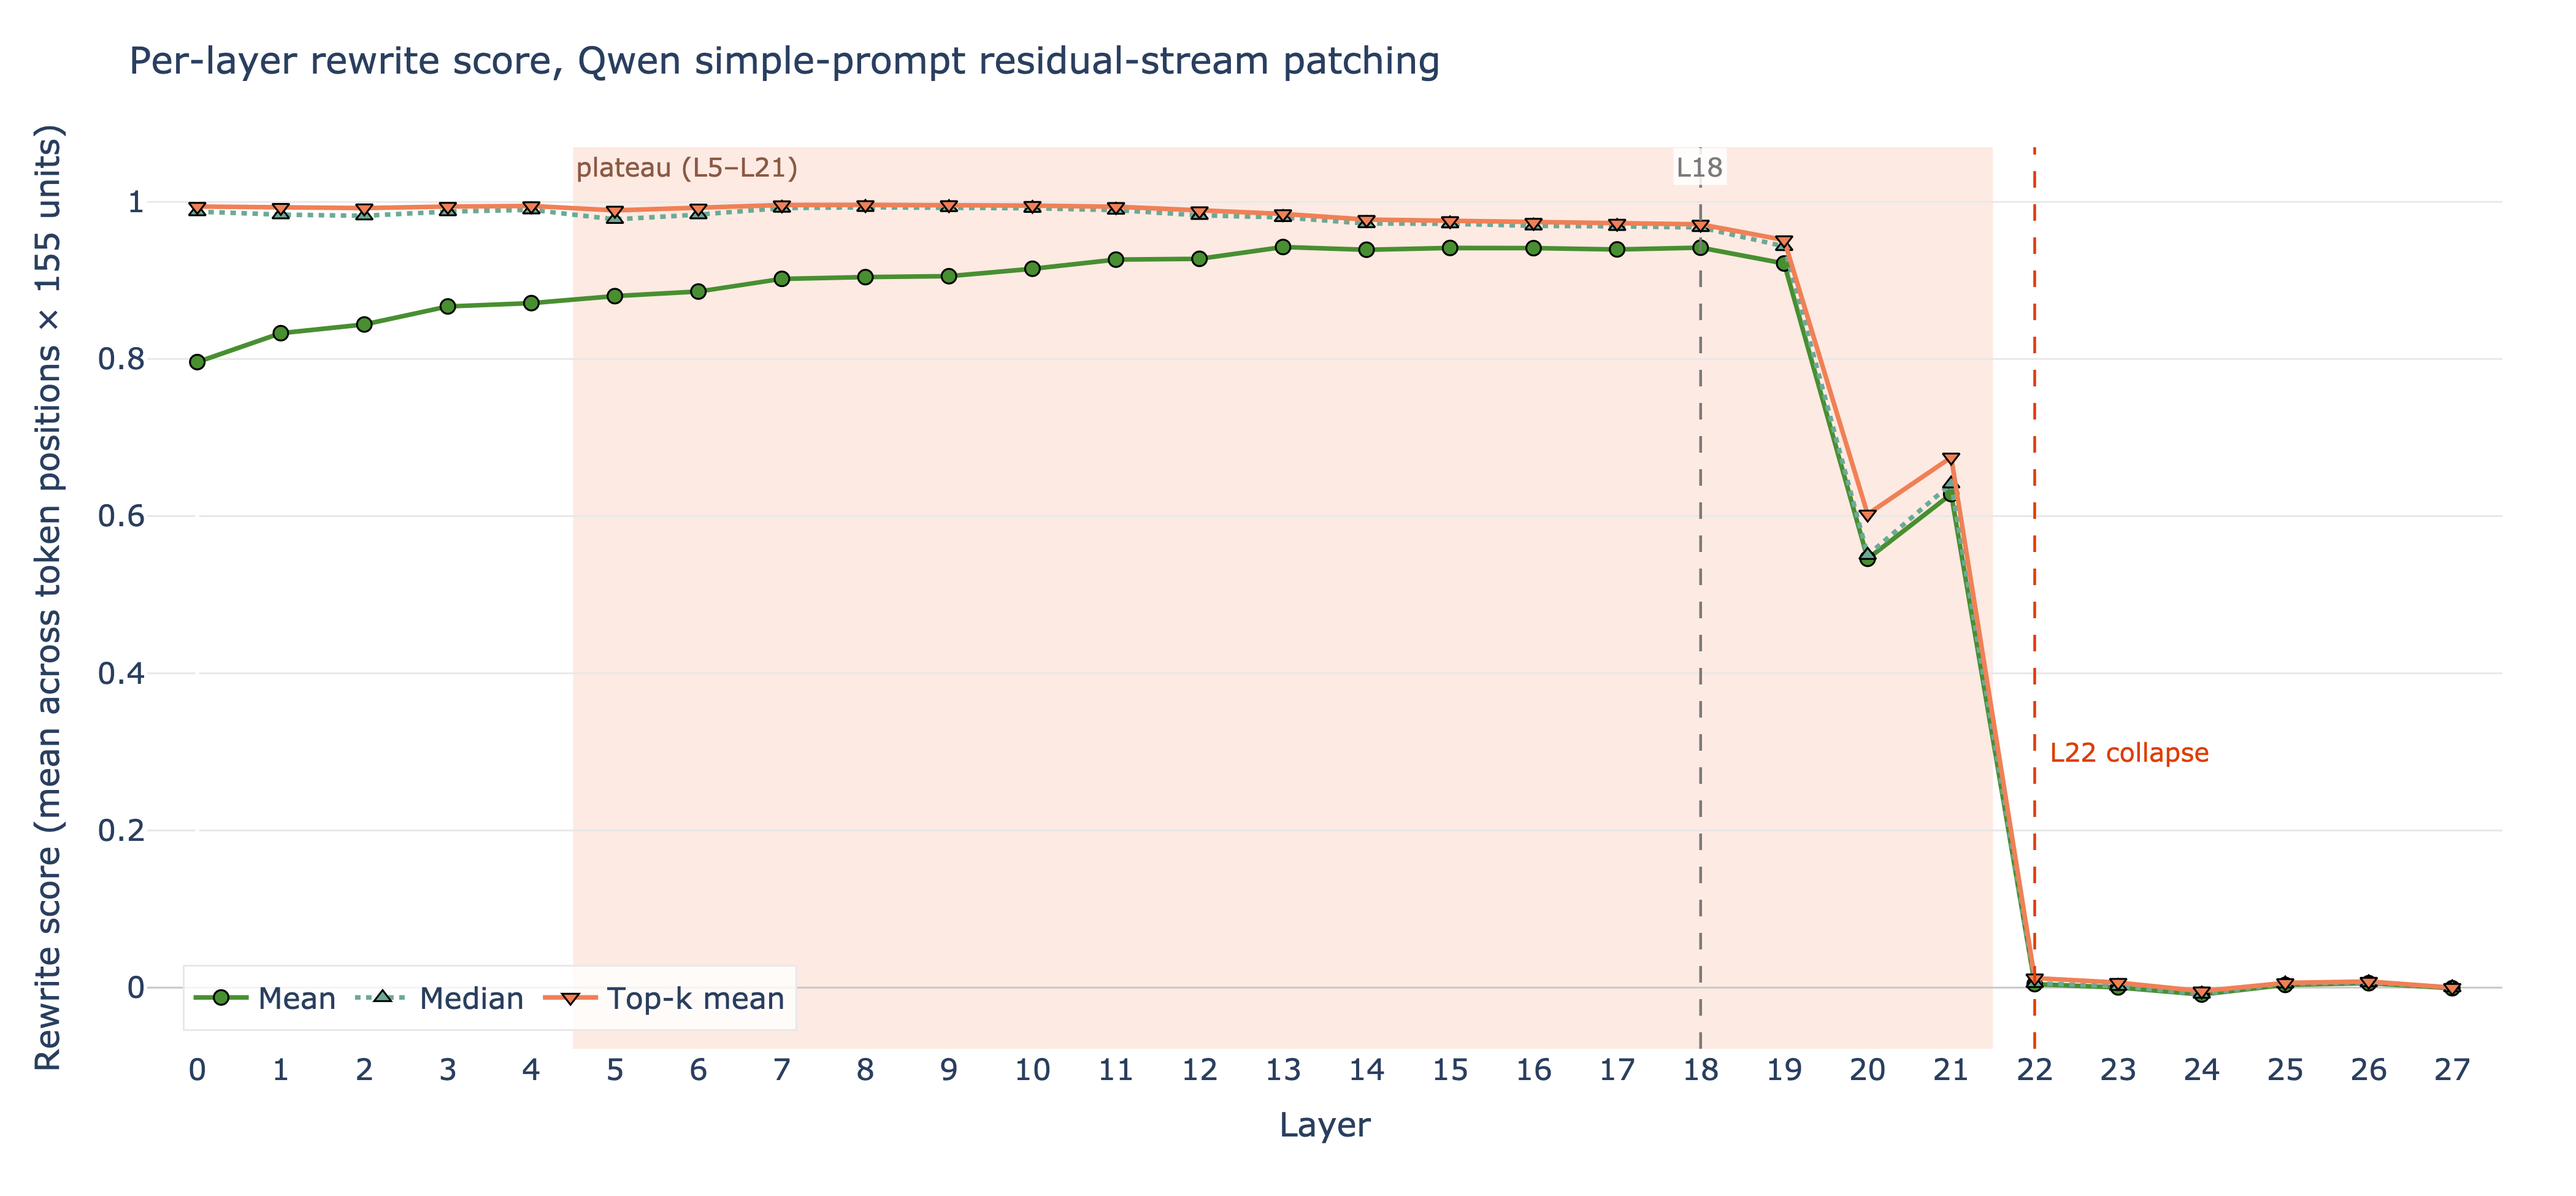
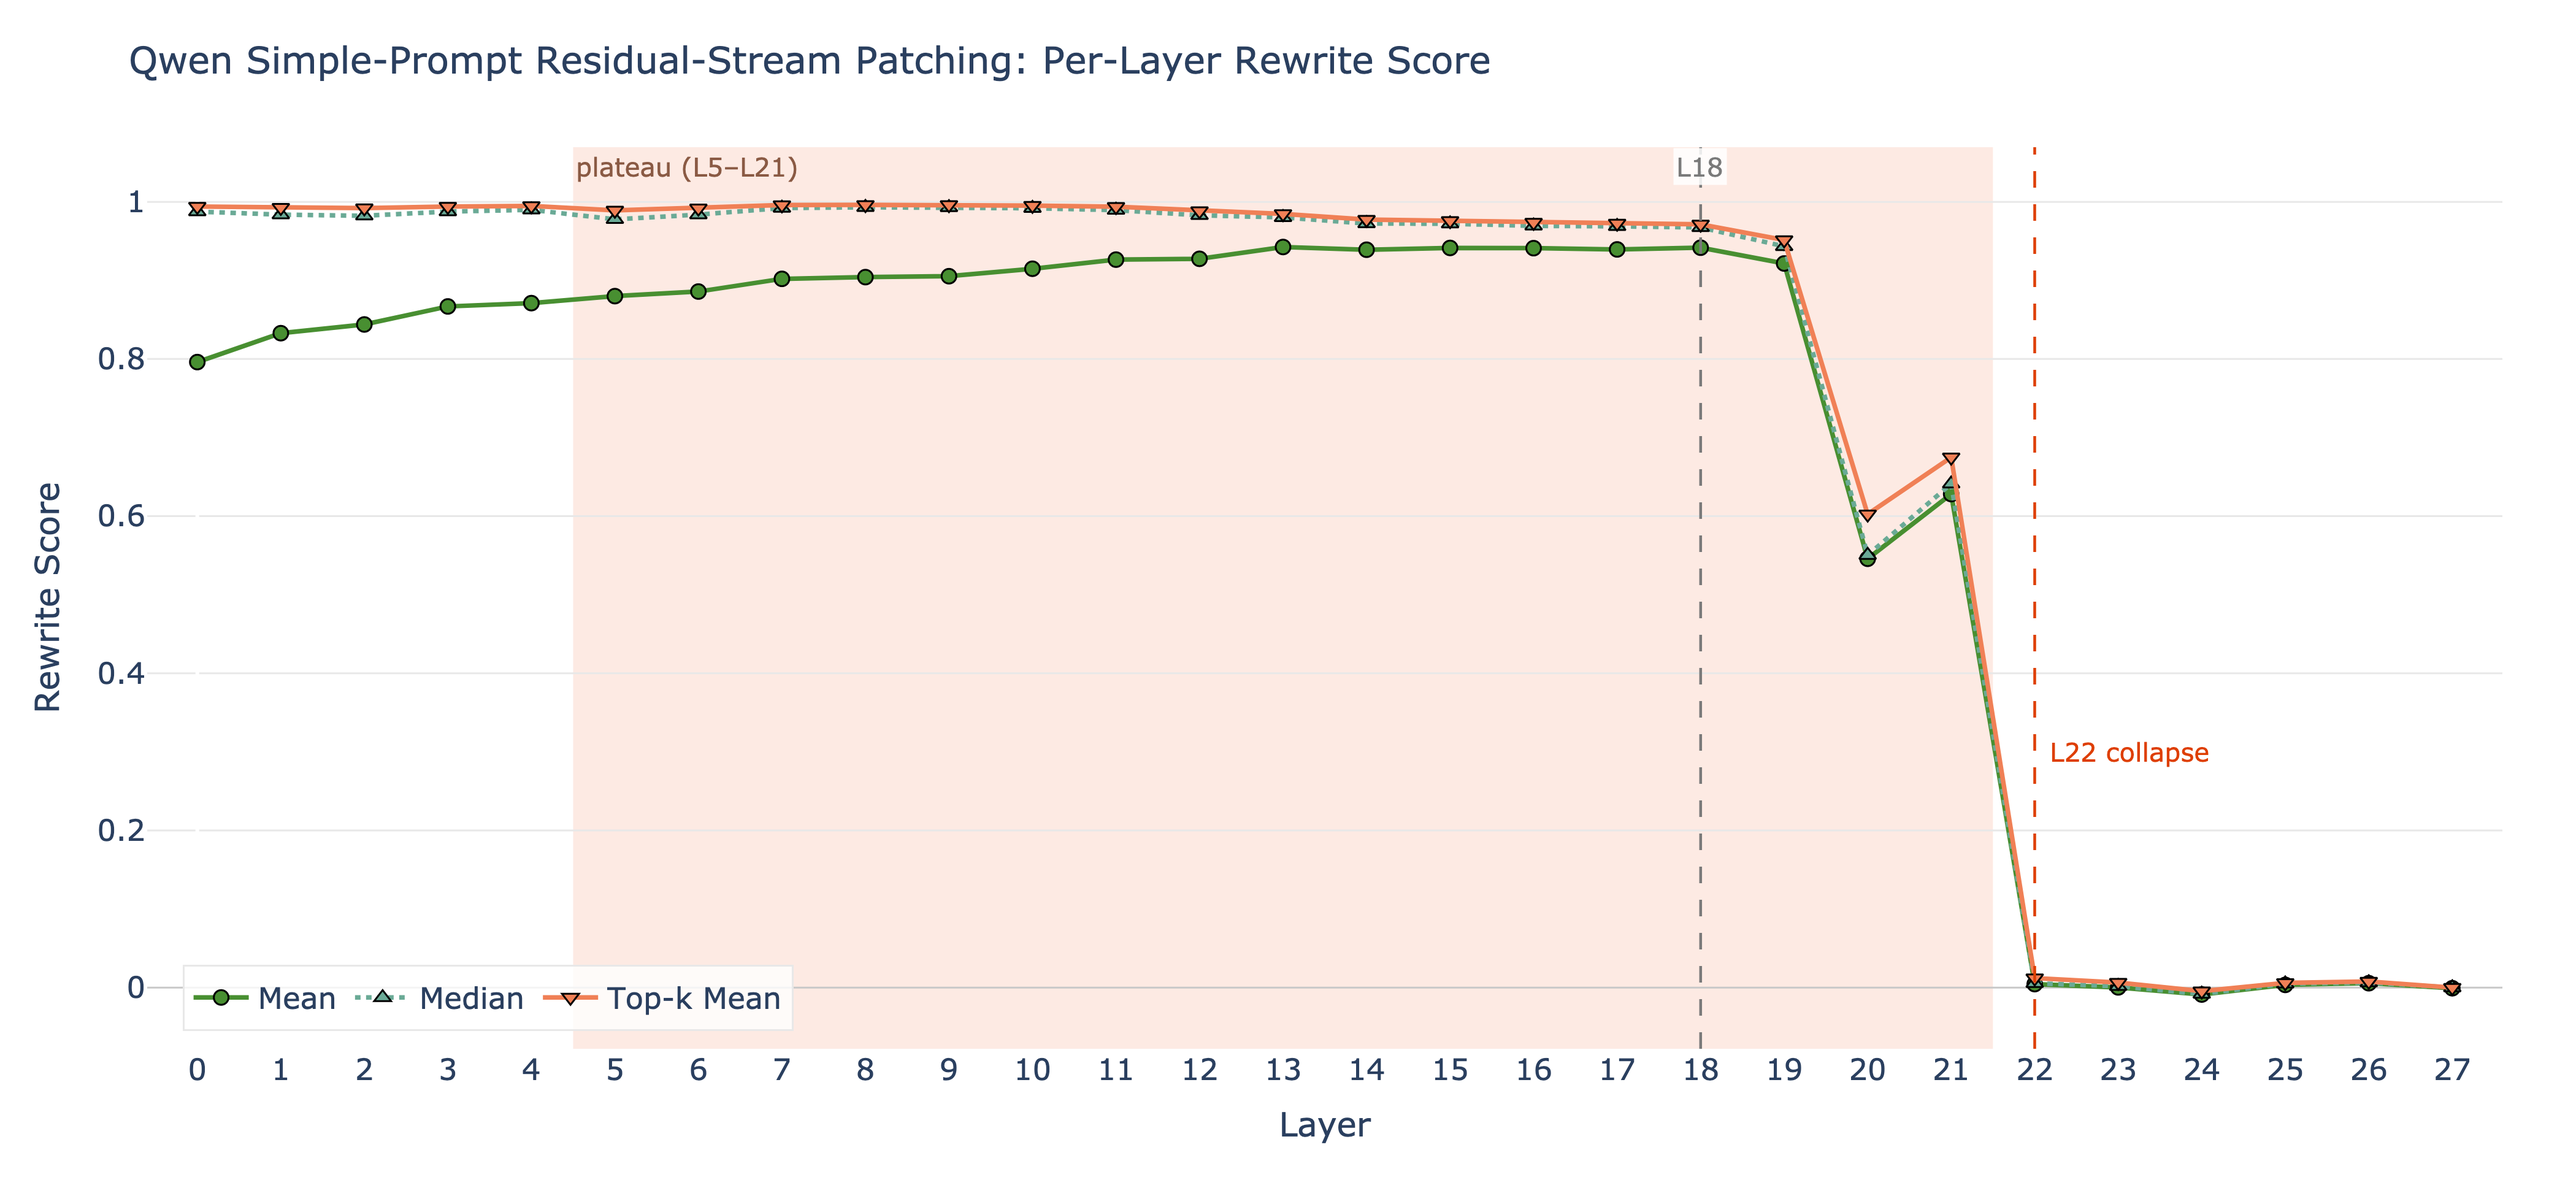
Bring fig11 title and axis labels in line with the figure conventions
Title moves to Title Case with the colon-separated form used by fig5
("Qwen Simple-Prompt Residual-Stream Patching: Per-Layer Rewrite Score")
instead of the original comma-spliced sentence case. Y-axis label reduces
to "Rewrite Score" - the "mean across token positions x 155 units"
aggregation detail belongs in the caption rather than crammed into the
axis. Legend entries title-cased to match.

Values unchanged.

diff --git a/paper_figures/README.md b/paper_figures/README.md
@@ -18,7 +18,7 @@ data" per figure below.
 | `fig5a_mlp_heatmap_asthma_prompt1.png` | Layer × token heatmap of rewrite score, Qwen simple-prompt MLP patching, asthma prompt 1, divergent green(+)/orange(−) scale centered at 0 | `activation_patching/simple_patching/female5_patch_male/artifacts/asthma_prompt1.pkl` |
 | `fig5b_mlp_heatmap_rheumatoid_arthritis_prompt1.png` | Same, rheumatoid arthritis prompt 1 | `activation_patching/simple_patching/female5_patch_male/artifacts/rheumatoid_arthritis_prompt1.pkl` |
 | `fig5_mlp_heatmaps_combined_asthma_ra.png` | Stacked combined version of fig5a (top) + fig5b (bottom), shared colorbar/z-scale | same two `.pkl` files |
-| `fig11_residual_plateau_qwen.png` | Per-layer rewrite score (mean / median / top-k mean) for Qwen simple-prompt **residual-stream** patching, 28 layers × 155 units. Mid-layer plateau L5–L21 shaded; L18 and the L22 collapse marked. | `raw_uploads/simple_prompt_residual/aggregate_per_layer.csv` → `rewrite_scores_{mean,median,topk_mean}` |
+| `fig11_residual_plateau_qwen.png` | Per-layer rewrite score (mean / median / top-k mean) for Qwen simple-prompt **residual-stream** patching, 28 layers × 155 units. Mid-layer plateau L5–L21 shaded; L18 and the L22 collapse marked. The "mean across token positions × 155 units" aggregation detail belongs in the caption, not the axis label. | `raw_uploads/simple_prompt_residual/aggregate_per_layer.csv` → `rewrite_scores_{mean,median,topk_mean}` |
 
 ## Display filtering (fig5 only)
 
